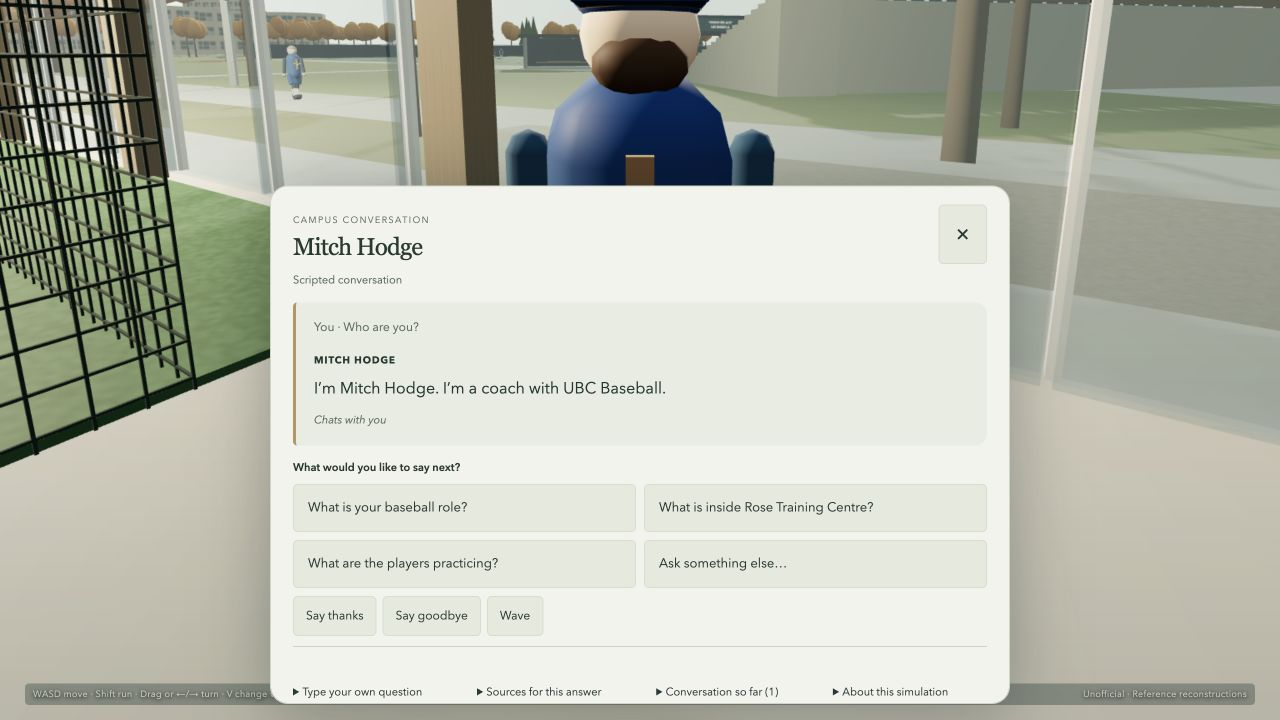
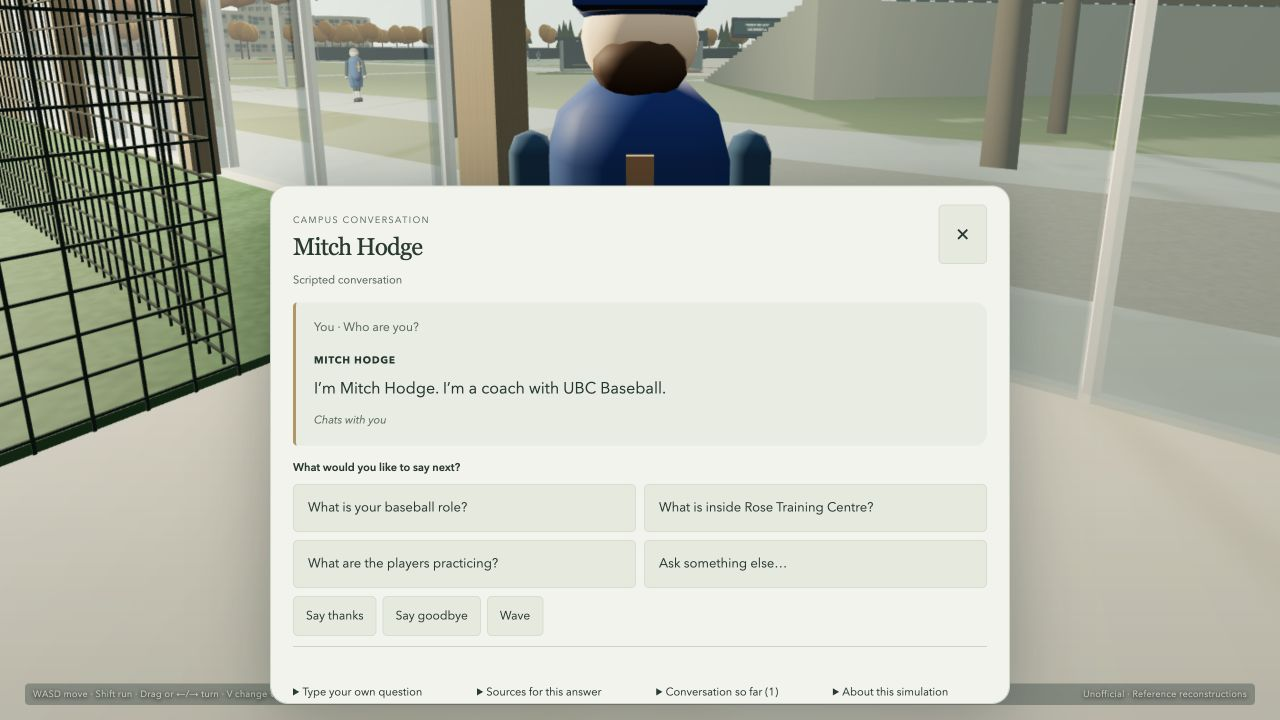
Record verified UBC natural dialogue production release

diff --git a/docs/UBC_NATURAL_DIALOGUE_RELEASE_2026-10-31.md b/docs/UBC_NATURAL_DIALOGUE_RELEASE_2026-10-31.md
@@ -1,0 +1,107 @@
+# UBC natural dialogue — production receipt
+
+Verified live at `https://asymmetri.co/labs/ubc` and the corresponding `www` URL.
+Activation completed October 31, 2026 at 18:31:51 UTC (11:31 PDT), under the
+owner's standing instruction to deploy after implementation and validation.
+
+The [implementation report](UBC_NATURAL_DIALOGUE_2026-10-31.md) describes concise
+introductions and conversational replies across all 976 static character records,
+plus participant-profile introductions. Source and reconstruction notes remain
+optional. Participant-authored answers, geography, crowd routes, immutable data
+and the profile-storage format are unchanged.
+
+## Exact release
+
+| Item | Verified value |
+| --- | --- |
+| Implementation | `d7066ac` |
+| Linux source | `f3e5a9fd530ca3acd28f9f8200d6668e79c03273` |
+| Next build | `UvDOiPq9Ko5YmOkq4aC66` |
+| Linux workflow | `41228994357` |
+| Artifact | `13052284896` |
+| Node | `v22.23.1`, existing binary unchanged |
[2 lines of base64/hex data omitted]
+
+The application-owned independent checkout received the exact Linux runtime;
+download, transferred checksum, source and build identity matched. Private smoke
+passed before the whole-directory activation. Subsequent documentation/gallery
+commits do not change this deployed source. No macOS dependencies were deployed.
+
+## Acceptance
+
+- Exact Linux workflow: TypeScript/ESLint, production dependency audit (zero
+  vulnerabilities), Next webpack build and 226 tests passed: UBC 56, Vancouver
+  74, Surrey 69 and Richmond 27. The existing unrelated tutorial-navigation lint
+  warning remains. Local Vinext and Next builds also passed.
+- Private candidate: 17 routes, eight protected host checks, 24 tutorial assets,
+  124 legacy tutorial IDs, homepage division links, native image optimization,
+  all 688 Richmond outputs and six UBC assets passed. Public profile projection
+  and anonymous owner lookup passed without changing the store.
+- Public: 17 routes and 24 tutorial assets returned 200 on both hosts. Before/after
+  content, links, IDs, canonicals and tutorial hashes matched. Another 70 public
+  copy, redirect and immutable asset checks passed.
+- Four read-only community/profile checks passed on both hosts with `no-store`.
+  Christopher Lin's opt-in profile remains present, anonymous owner lookup is
+  null, and private ownership material is absent from the public projection.
+  No test profile was published and no recovery credential was used.
+- Fresh production browser: walked into Rose, encountered Mitch, selected
+  “Who are you?” and received “I’m Mitch Hodge. I’m a coach with UBC Baseball.”
+  Typed “Hi, who are you?” returned the same introduction. Facility follow-ups,
+  optional information, thanks, goodbye and return-to-scene focus passed.
+  The live warning/error log was empty. Desktop and 390×844 phone captures are
+  [retained](validation/ubc-natural-dialogue/README.md); no horizontal overflow
+  was observed. Local checks also covered tablet layout and unsupported questions.
+
+Viewport automation is not physical-device testing. No sustained performance/load
+measurement or complete screen-reader audit is claimed. Responses remain curated;
+they do not provide unrestricted AI dialogue. A minor existing topic-list behavior
+can offer Einstein's identity question again after his introduction.
+
+## Final health and recovery
+
+Continuous guards retained 192 MiB available-memory and 6 GiB free-disk floors.
+Private smoke minima were 290,552 KiB available and 6,507,143,168 bytes free;
+activation monitoring reported no guard errors. Final health at 18:34:02 UTC found:
+
+- Exact source/build above, clean source and unchanged Node binary.
+- Website active, running and enabled, with zero automatic restarts.
+- 412,324 KiB available memory and 6,506,876,928 bytes free disk.
+- All five peer services, 56 configuration fingerprints and 13 unrelated virtual
+  hosts unchanged; private profile modes remain 0700/0600.
+- No post-activation error entries. The prior process recorded its expected
+  exit 143 during the controlled restart.
+
+The complete immediate predecessor remains expanded at
+`/var/www/asymmetri-rollback-before-ubc-v033-dialogue-20261031`, with source
+`bbf194c3584637868bf92936da946485caca2929`, build `Ds3XoQLPUe8czRrb_7rcW` and
+its own executable dependencies. For rollback, recheck identities and guards,
+stop only `asymmetri.service`, retain the failed release separately, restore that
+complete predecessor and repeat protected-route/profile checks. Keep the external
+`/var/lib/asymmetri-ubc-community` store intact.
+
+## Older runtime retention
+
+To preserve candidate headroom, one older inactive runtime was losslessly archived:
+`asymmetri-rollback-before-ubc-v031-profile-routing-20261031.tar.gz`, source
+`32f72951135c45b6cfb44281cda9dc1e029d15a2`, build `uSdetjZWMH8Rh69FKnc5J`.
+The archive is 397,086,322 bytes with SHA-256
[1 lines of base64/hex data omitted]
+
+Its clean source/build and absence of open files were checked. An ACL/xattr-
+preserving archive was written and fsynced on the Mac, compared with the intact
+original using GNU tar, then copied back and checksum-verified before removing
+only the expanded inactive tree. Both archive copies and adjacent receipts remain.
+Final health rehashed this archive and the two earlier archives retained in the
+V0.3.2 evidence directory. Current live, immediate rollback, other retained
+rollbacks and profile data were preserved. The historical V0.3.1 rollback path
+is now an archive, not an expanded runtime directory.
+
+For historical recovery, verify hash, available capacity and archive paths, then
+extract into a separate empty directory with GNU tar preserving ownership, ACLs
+and xattrs. Verify complete source/build/runtime before considering activation.
+
+Root-only operational evidence is under
+`/var/lib/asymmetri-ubc-v033-dialogue-release-20261031`; private Mac receipts and
+archives are under `~/dev/asymmetri/deployment-retention/2026-10-31/ubc-v033-dialogue`.
+No profile data, credentials or signed download URLs are committed to Git.

diff --git a/docs/UBC_NATURAL_DIALOGUE_2026-10-31.md b/docs/UBC_NATURAL_DIALOGUE_2026-10-31.md
@@ -60,7 +60,7 @@ follow-up choices, brief uncertainty, thanks, goodbye and optional metadata.
 Phone (390×844), tablet (768×1024) and desktop (1280×720) viewports had no horizontal
 overflow. Keyboard focus stayed inside the conversation, safe source links retained
 new-tab security attributes, and the compiled preview logged no warnings/errors.
-[Actual compiled-preview screenshots](validation/ubc-natural-dialogue/README.md)
+[Actual production screenshots](validation/ubc-natural-dialogue/README.md)
 show the new introduction. No physical-device or sustained performance test is claimed.
 
 On Node 24.10.0, TypeScript/ESLint, Vinext and Next webpack builds passed; the
@@ -73,5 +73,10 @@ geography, population, asset dependency or profile-storage format is introduced.
 
 The completed Surrey handoff was integrated from main `bba7a13` without conflicts;
 its delta changes only Surrey guidance/tests and documentation, with no UBC or
-shared runtime edits. Production publication is pending this change’s exact-source
-Linux build and guarded acceptance. Source or local preview alone is not a deployment.
+shared runtime edits. The exact-source Linux candidate passed all 226 tests
+(UBC 56, Vancouver 74, Surrey 69, Richmond 27) and was activated October 31 at
+18:31:51 UTC (11:31 PDT). Fresh production browser checks verified introductions,
+typed identity questions, facility follow-ups, optional metadata, thanks, goodbye
+and focus returning to the scene. Desktop and phone screenshots were refreshed
+from production; no browser warnings/errors were recorded. See the
+[release and recovery receipt](UBC_NATURAL_DIALOGUE_RELEASE_2026-10-31.md).

diff --git a/docs/validation/ubc-natural-dialogue/README.md b/docs/validation/ubc-natural-dialogue/README.md
@@ -1,7 +1,8 @@
 # Natural dialogue browser evidence
 
-Two actual, unretouched JPEG screenshots of the compiled local UBC application,
-October 31, 2026. These show working conversation UI reached through ordinary
+Two actual, unretouched JPEG screenshots of the live UBC application at
+`https://asymmetri.co/labs/ubc`, October 31, 2026, after the 18:31:51 UTC release
+(source `f3e5a9f`, build `UvDOiPq9Ko5YmOkq4aC66`). These show working conversation UI reached through ordinary
 directory travel, walking and interaction controls. No generated marketing image,
 real portrait or user attachment is used.
 
@@ -11,6 +12,7 @@ real portrait or user attachment is used.
   reply fits without scrolling through verification or model details.
 
 The source and simulation metadata remain in optional disclosures. Browser checks
-also covered typed introductions, educational replies, uncertainty, thanks,
-goodbye, history, focus and tablet layout. These are viewport tests, not physical-
+covered typed introductions, educational replies, thanks, goodbye, optional
+metadata and return-to-scene focus live. Local checks additionally covered
+uncertainty, history, keyboard focus and tablet layout. These are viewport tests, not physical-
 phone measurements. See [validation and release status](../../UBC_NATURAL_DIALOGUE_2026-10-31.md).

diff --git a/docs/DEPLOYMENT.md b/docs/DEPLOYMENT.md
@@ -3,8 +3,15 @@
 This guide covers routine redeployment of `https://asymmetri.co` on the current
 DigitalOcean Ubuntu Droplet.
 
+The [UBC natural dialogue receipt](UBC_NATURAL_DIALOGUE_RELEASE_2026-10-31.md)
+records the latest runtime: source `f3e5a9f`, build `UvDOiPq9Ko5YmOkq4aC66`,
+activated October 31 at 18:31:51 UTC. It preserves the completed Surrey guidance,
+all city apps and existing player profiles. The complete immediate rollback is
+`/var/www/asymmetri-rollback-before-ubc-v033-dialogue-20261031`. Its older V0.3.1
+rollback tree is now a verified archive; consult the receipt for recovery.
+
 The [Surrey V0.6 release receipt](SURREY_V06_RELEASE_2026-10-31.md) records the
-latest Open Roads runtime, guidance follow-up, complete immediate rollback and
+preceding Open Roads runtime, guidance follow-up, complete immediate rollback and
 verified historical archives. Always refresh actual live source/build before
 staging; older receipt identities are historical.
 

diff --git a/docs/TESTING.md b/docs/TESTING.md
@@ -868,3 +868,10 @@ removed meta-only questions are available as optional simulation information.
 Browser acceptance covers the reply panel, optional metadata, phone/tablet/desktop
 layouts, typed questions and return-to-scene focus. See
 [scope and evidence](UBC_NATURAL_DIALOGUE_2026-10-31.md).
+
+The exact Linux natural-dialogue release passed UBC 56, Vancouver 74, Surrey 69
+and Richmond 27 tests (226 total). Private smoke, both-host protected routes and
+read-only profile checks passed. Fresh production browser acceptance verified
+button/typed identity, a facility answer, optional metadata, thanks, goodbye and
+scene focus with an empty warning/error log; desktop and phone captures are live.
+See the [release receipt](UBC_NATURAL_DIALOGUE_RELEASE_2026-10-31.md).

diff --git a/docs/ASSET_MANIFEST.md b/docs/ASSET_MANIFEST.md
@@ -1145,8 +1145,8 @@ The gallery labels provide descriptive link text/alt context.
 ## UBC natural dialogue evidence — 2026-10-31
 
 Two unretouched JPEG captures in `docs/validation/ubc-natural-dialogue/` are
-engineering evidence from the compiled local application, not new public site
-assets. Original procedural character/campus output; no external portrait, logo,
+engineering evidence refreshed from the live production application after the
+October 31 natural-dialogue release, not new public site assets. Original procedural character/campus output; no external portrait, logo,
 private profile data or user-supplied screenshot is included. No processing beyond
 browser capture. Existing GIS provenance remains unchanged.
 

diff --git a/projects/ubc/README.md b/projects/ubc/README.md
@@ -162,6 +162,6 @@ are [verified live](../../docs/UBC_ENCOUNTER_RELEASE_2026-10-31.md): action-and-
 dialogue, dispersed pedestrians, grouped building entries and immediate movement
 focus after travel. The release adds no new geographic coverage.
 
-See [natural dialogue](../../docs/UBC_NATURAL_DIALOGUE_2026-10-31.md) for the next
-refinement: concise introductions and conversational answers across the registry,
+See [natural dialogue](../../docs/UBC_NATURAL_DIALOGUE_2026-10-31.md) for the
+[verified live refinement](../../docs/UBC_NATURAL_DIALOGUE_RELEASE_2026-10-31.md): concise introductions and conversational answers across the registry,
 with source/reconstruction notes outside the spoken response.
